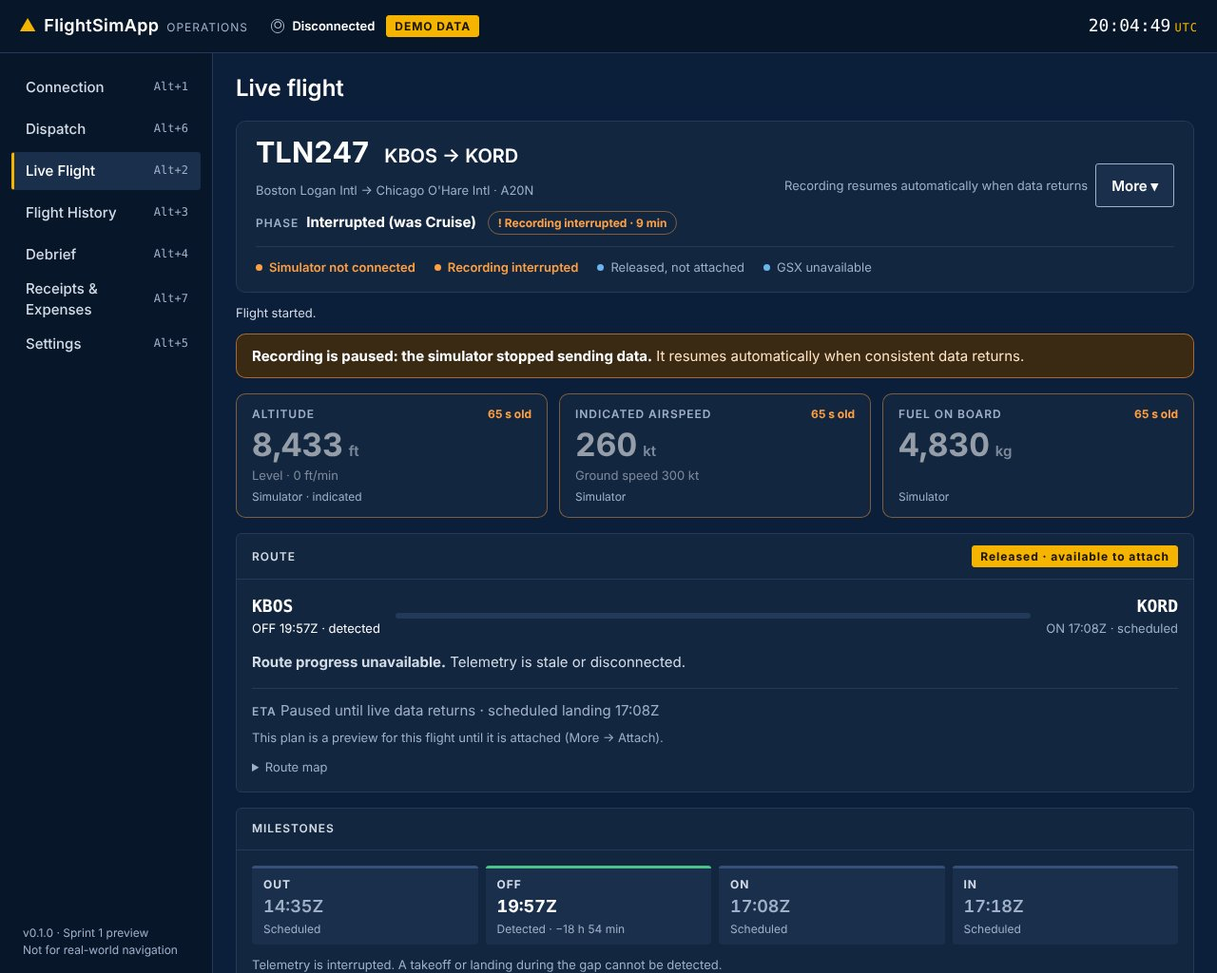
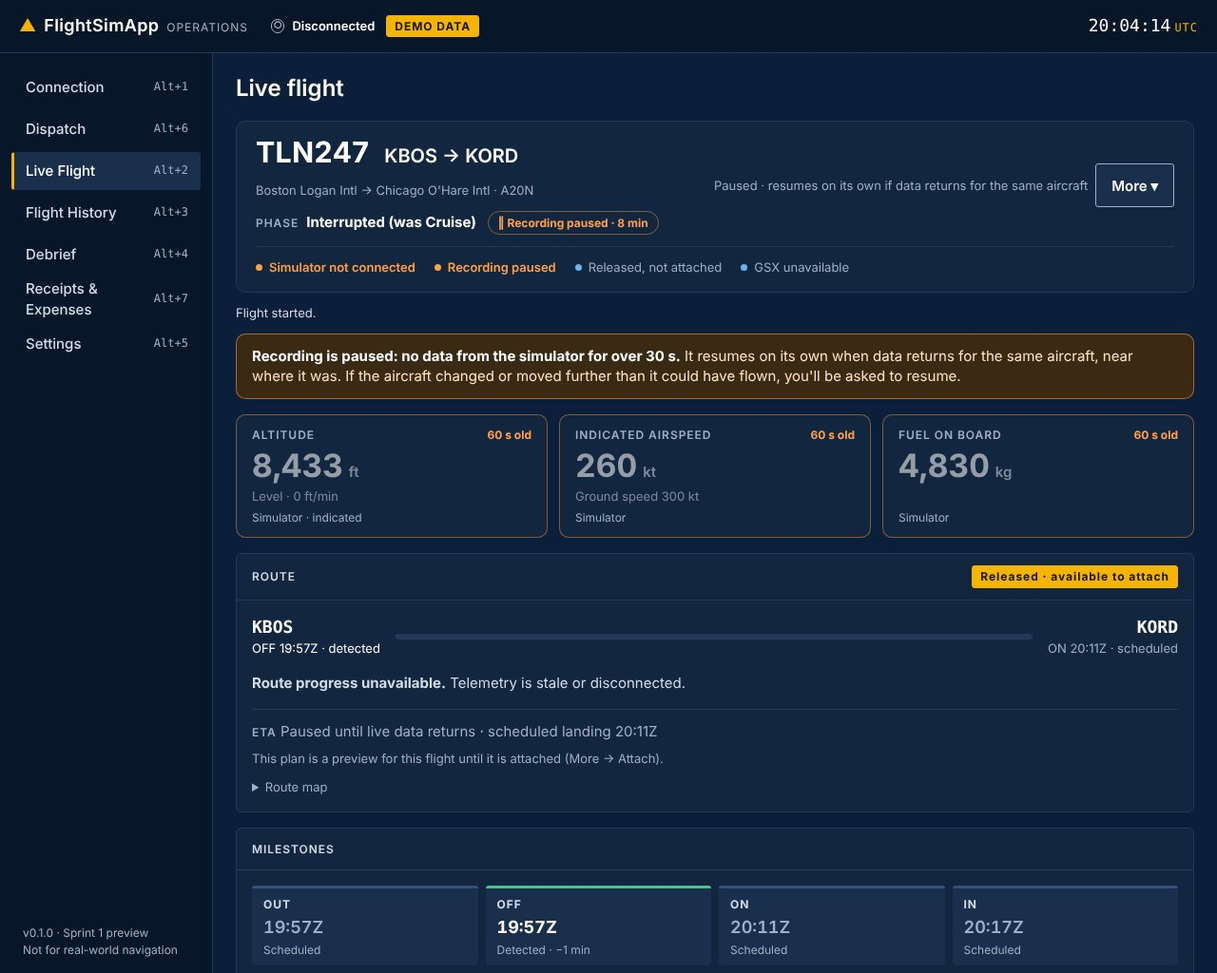
Ops Center L5 fixes: whole tile values, accurate interruption messages
- Tile values are never cut off. The parking-brake tile now reads
  'Parking brake: Set / Released', with engines and ground state on the
  secondary line. Tile values wrap instead of ending in an ellipsis. The
  header status line may break between the phase and the recording chip.
- Interruption messages follow the recorder's real rules (flight-core
  engine):
  - stale data under 30 s: recording continues, with the threshold stated;
  - lost data for 30 s or more: 'Recording paused', which resumes on its
    own when data returns for the same aircraft near its last position;
  - a mismatch after data returns (aircraft changed, or moved further
    than it could have flown): 'Resume needed', with the reason;
  - an app restart: 'Unfinished flight found'.
  The 30 s threshold is read from the engine config.
- Flight details sits under the route card at two columns, and last when
  stacked. The remaining space at 1920 px comes from the classic
  Turnaround panel, which L6 replaces; nothing was added to fill it.
- Review captures: a screenshot-only copy of the synthetic OFP puts its
  schedule on the demo flight's timeline (fixtures and tests unchanged).
  The route-mismatch session is kept as recorded. A separate session
  holds the route-tracking example and a genuine Resume-needed case. The
  script fails if any tile or header text is cut off.
- Tests: a tile-value length budget across phases, readings, schedules
[…]

diff --git a/apps/desktop/test/live-model.test.ts b/apps/desktop/test/live-model.test.ts
@@ -17,6 +17,8 @@ import {
   health,
   flownPhaseGroup,
   identity,
+  INTERRUPT_AFTER_S,
+  interruptionKind,
   liveRouteProgress,
   milestoneCells,
   phaseGroup,
@@ -151,7 +153,7 @@ describe("metric tiles", () => {
     const [sched, fuel, ac] = selectTiles(tiles({ lc: active("PREPARING") }));
     expect(sched).toMatchObject({ id: "scheduled_out", label: "Scheduled off-block in", value: "17", unit: "min", secondary: "14:35Z scheduled" });
     expect(fuel).toMatchObject({ value: "5,120", secondary: "Planned block fuel 7,420 kg" });
-    expect(ac).toMatchObject({ value: "Parking brake set", secondary: "0 of 2 engines running · on ground" });
+    expect(ac).toMatchObject({ label: "Parking brake", value: "Set", secondary: "0 of 2 engines running · on ground" });
     const preview = selectTiles(tiles({ lc: active("PREPARING"), schedulePlan: null }))[0];
     expect(preview).toMatchObject({ value: null, state: "unavailable", note: "Release or attach a plan to use its schedule" });
     const late = selectTiles(tiles({ lc: active("PREPARING"), nowMs: Date.parse("2026-10-15T14:41:00Z") }))[0];
@@ -189,7 +191,7 @@ describe("flight actions", () => {
     // Interrupted before takeoff: the existing rules still allow a manual OUT, so it stays reachable.
     expect(acts({ lc: lc({ status: "interrupted", flightId: "f-1", phase: "INTERRUPTED", needsUserDecision: true }) })).toMatchObject({ primary: "resume", secondary: ["record_out", "end", "discard"] });
     // Automatic interruption: recording resumes on its own; Resume stays available but is not the primary.
-    expect(acts({ lc: lc({ status: "interrupted", flightId: "f-1", phase: "INTERRUPTED", takeoffAt: "x" }) })).toMatchObject({ primary: null, secondary: ["resume", "end", "discard"], idleNote: "Recording resumes automatically when data returns" });
+    expect(acts({ lc: lc({ status: "interrupted", flightId: "f-1", phase: "INTERRUPTED", takeoffAt: "x" }) })).toMatchObject({ primary: null, secondary: ["resume", "end", "discard"], idleNote: "Paused · resumes on its own if data returns for the same aircraft" });
     expect(acts({ lc: lc({ status: "completed", flightId: "f-1" }) })).toMatchObject({ primary: "start", secondary: ["open_debrief"] });
     expect(acts({ lc: lc({ status: "completed", flightId: "f-1" }), telemetryLive: false })).toMatchObject({ primary: "connect", secondary: ["open_debrief"] });
   });
@@ -258,7 +260,8 @@ describe("health summary and attention", () => {
     expect(h({ writeError: "busy", pendingItems: 23 }).attention[0]).toMatchObject({ id: "write", detail: "23 items are kept safely in memory and saving is retried automatically.", actions: ["retry_flush"] });
     expect(h({ lc: lc({ status: "interrupted", flightId: "f-1", needsUserDecision: true }) }).attention[0]).toMatchObject({ id: "interrupted", level: "action", actions: ["resume"] });
     expect(h({ lc: lc({ status: "interrupted", flightId: "f-1", needsUserDecision: true, startedAt: "2026-10-15T14:00:00Z" }), recovered: true }).attention[0]).toMatchObject({ title: "Unfinished flight found.", actions: ["resume"] });
-    expect(h({ lc: lc({ status: "interrupted", flightId: "f-1" }), freshness: STALE, simulatorConnected: true }).attention.map((a) => a.id)).toEqual(["interrupted", "stale"]);
+    // Once interrupted, the interruption message replaces the stale one (which would promise an interruption that already happened).
+    expect(h({ lc: lc({ status: "interrupted", flightId: "f-1" }), freshness: STALE, simulatorConnected: true }).attention.map((a) => a.id)).toEqual(["interrupted"]);
     expect(h({ freshness: { kind: "stale", ageMs: 9000, reason: "disconnected" }, simulatorConnected: false }).attention[0]).toMatchObject({ id: "disconnected", actions: ["connect"] });
     expect(h({ lc: lc(), freshness: { kind: "none" }, simulatorConnected: false }).attention).toEqual([]);
     expect(h({ turnaround: turnaround([], { status: "interrupted" }) }).attention[0]).toMatchObject({ id: "turnaround", actions: ["resume_turnaround"] });
@@ -391,5 +394,92 @@ describe("flown phase and ETA reasons", () => {
     const base = { hasPlan: true, hasNavlog: true, airborne: false, freshness: LIVE, progress: null, groundSpeedKt: 0, nowMs: NOW };
     expect(etaEstimate(base)).toEqual({ kind: "hidden", reason: "Starts after takeoff" });
     expect(etaEstimate({ ...base, landed: true })).toEqual({ kind: "hidden", reason: "Not shown after landing" });
+  });
+});
+
+describe("tile values are never cut off", () => {
+  // Every tile value must fit a three-up tile at 1100 px (about 12 characters at the value size);
+  // longer wording goes in the label or the secondary line, never in the value.
+  const MAX_VALUE_CHARS = 12;
+  const states: LifecycleState[] = [
+    lc(),
+    active("PREPARING"),
+    active("TAXI_OUT"),
+    active("TAKEOFF"),
+    active("CLIMB"),
+    active("CRUISE"),
+    active("DESCENT"),
+    active("APPROACH"),
+    active("LANDING", { takeoffAt: "2026-10-15T14:52:00Z", landingAt: "2026-10-15T17:08:00Z" }),
+    active("TAXI_IN", { takeoffAt: "2026-10-15T14:52:00Z", landingAt: "2026-10-15T17:08:00Z" }),
+    active("TAXI_IN", { arrived: true, takeoffAt: "2026-10-15T14:52:00Z", landingAt: "2026-10-15T17:08:00Z" }),
+    lc({ status: "interrupted", flightId: "f-1", phase: "INTERRUPTED" as LifecycleState["phase"], resumePhase: "CRUISE" }),
+  ];
+  const frames = [frame(), frame((r) => (r.parking_brake_set = { value: false, unit: "bool", quality: "ok" })), airborneFrame(), airborneFrame(41_000, -2400, 290, 520, 1800), null];
+  const nows = [NOW, Date.parse("2026-10-15T09:00:00Z"), Date.parse("2026-10-16T02:00:00Z")];
+  const manuals = [NO_MANUAL, manual("2026-10-15T14:38:00Z", null), manual("2026-10-15T14:38:00Z", "2026-10-15T17:25:00Z")];
+
+  it(`keep every value within ${MAX_VALUE_CHARS} characters in every phase, reading and schedule`, () => {
+    for (const l of states)
+      for (const f of frames)
+        for (const nowMs of nows)
+          for (const m of manuals)
+            for (const fresh of [LIVE, STALE])
+              for (const t of selectTiles(tiles({ lc: l, frame: f, nowMs, manual: m, freshness: fresh })))
+                if (t.value !== null) expect(t.value.length, `${t.id} "${t.value}"`).toBeLessThanOrEqual(MAX_VALUE_CHARS);
+  });
+
+  it("the parking-brake tile keeps its full meaning in the label, value and secondary line", () => {
+    const [, , ac] = selectTiles(tiles({ lc: active("PREPARING") }));
+    expect(`${ac.label}: ${ac.value}`).toBe("Parking brake: Set");
+    const released = selectTiles(tiles({ lc: active("PREPARING"), frame: frame((r) => (r.parking_brake_set = { value: false, unit: "bool", quality: "ok" })) }))[2];
+    expect(released.value).toBe("Released");
+  });
+
+  it("the stylesheet lets tile values wrap instead of truncating them", () => {
+    const css = readFileSync(join(__dirname, "../src/styles/app.css"), "utf8");
+    const rule = css.match(/\.ops-tile__value \{[^}]*\}/)?.[0] ?? "";
+    expect(rule).not.toBe("");
+    expect(rule).not.toMatch(/text-overflow:\s*ellipsis|white-space:\s*nowrap/);
+  });
+});
+
+describe("interruption messages follow the recorder's real recovery rules", () => {
+  const open = (o: Partial<LifecycleState> = {}) => lc({ status: "interrupted", flightId: "f-1", phase: "INTERRUPTED" as LifecycleState["phase"], resumePhase: "CRUISE", ...o });
+  const h = (o: Partial<HealthInputs>) =>
+    health({ lc: active("CRUISE"), freshness: LIVE, simulatorConnected: true, simulator: "msfs2020", store: { state: "ready" }, writeError: null, pendingItems: 0, basis: basis("release_attached_current"), gsx: feed("live"), gsxRecordError: null, turnaround: null, opsError: null, ...o });
+  const acts = (o: Partial<ActionInputs>) => flightActions({ lc: lc(), telemetryLive: true, storeReady: true, opsReady: true, manual: NO_MANUAL, ...o });
+
+  it("tells apart lost data (resumes on its own), a reconciliation mismatch and an app restart (both need Resume)", () => {
+    expect(interruptionKind(open(), false)).toBe("auto");
+    expect(interruptionKind(open({ needsUserDecision: true }), false)).toBe("reconcile");
+    expect(interruptionKind(open({ needsUserDecision: true }), true)).toBe("restart");
+    expect(interruptionKind(active("CRUISE"), false)).toBeNull();
+  });
+
+  it("an automatic interruption says it is a pause that ends on its own, and when it would not", () => {
+    const a = h({ lc: open() }).attention[0]!;
+    expect(a).toMatchObject({ id: "interrupted", level: "warn", actions: [] });
+    expect(a.title).toBe(`Recording is paused: no data from the simulator for over ${INTERRUPT_AFTER_S} s.`);
+    expect(a.detail).toMatch(/resumes on its own when data returns for the same aircraft/);
+    expect(a.detail).toMatch(/you'll be asked to resume/);
+    expect(h({ lc: open() }).items.find((i) => i.id === "recording")).toMatchObject({ level: "warn", text: "Recording paused" });
+    expect(acts({ lc: open({ takeoffAt: "x" }) })).toMatchObject({ primary: null, idleNote: "Paused · resumes on its own if data returns for the same aircraft" });
+  });
+
+  it("a mismatch after data returns asks for Resume and says why; it never claims to resume automatically", () => {
+    const a = h({ lc: open({ needsUserDecision: true }) }).attention[0]!;
+    expect(a).toMatchObject({ level: "action", title: "Recording needs you to resume.", actions: ["resume"] });
+    expect(a.detail).toMatch(/changed or moved further than it could have flown/);
+    expect(a.detail).not.toMatch(/automatically|on its own when/);
+    expect(h({ lc: open({ needsUserDecision: true }) }).items.find((i) => i.id === "recording")).toMatchObject({ level: "action", text: "Resume needed" });
+    expect(acts({ lc: open({ needsUserDecision: true, takeoffAt: "x" }) })).toMatchObject({ primary: "resume", idleNote: null });
+  });
+
+  it("stale data before the interruption threshold says recording continues and when it would be interrupted", () => {
+    const a = h({ lc: active("CRUISE"), freshness: STALE, simulatorConnected: true }).attention[0]!;
+    expect(a).toMatchObject({ id: "stale", level: "warn" });
+    expect(a.detail).toMatch(new RegExp(`Recording continues; if no data arrives for ${INTERRUPT_AFTER_S} s, the flight is marked interrupted`));
+    expect(INTERRUPT_AFTER_S).toBe(30);
   });
 });

diff --git a/apps/desktop/src/live/model.ts b/apps/desktop/src/live/model.ts
@@ -9,7 +9,7 @@
  * basis from `planBasisForFlight`, GSX state from `gsxFeedView`.
  */
 import { readingValue, type GsxService, type GsxServiceState, type Reading, type SimulatorId, type TelemetryFrameV1, type Unit } from "@flightsim/contracts";
-import { availableActions, type LifecycleState } from "@flightsim/flight-core";
+import { availableActions, DEFAULT_LIFECYCLE_CONFIG, type LifecycleState } from "@flightsim/flight-core";
 import type { PlanBasis, PlanBasisKind } from "../dispatch/planBasis";
 import type { ImportedFlightPlan } from "../dispatch/model";
 import { manualEligibility, PROVENANCE_TEXT, type ManualMilestones, type MilestoneRow } from "../dispatch/timeline";
@@ -23,6 +23,24 @@ import { routeProgress, type RouteProgress, type TrackerState } from "../route/p
 import type { RouteGeometry } from "../route/geometry";
 
 // ---------------------------------------------------------------- formatting
+
+/** Seconds of missing telemetry after which the recorder marks a flight interrupted (engine config). */
+export const INTERRUPT_AFTER_S = Math.round(DEFAULT_LIFECYCLE_CONFIG.interruptAfterMs / 1000);
+
+/**
+ * How an interrupted flight can continue, from the recorder's own rules (flight-core engine):
+ * - "auto": lost telemetry; the recorder resumes by itself when data returns for the same aircraft
+ *   within the distance it could have flown during the gap;
+ * - "reconcile": data returned but the aircraft changed or moved too far, so it waits for Resume;
+ * - "restart": the app closed with the flight open; it waits for Resume.
+ */
+export type InterruptionKind = "auto" | "reconcile" | "restart";
+
+export function interruptionKind(lc: LifecycleState, recovered: boolean): InterruptionKind | null {
+  if (lc.status !== "interrupted") return null;
+  if (recovered) return "restart";
+  return lc.needsUserDecision ? "reconcile" : "auto";
+}
 
 const NUM = new Intl.NumberFormat("en-US", { maximumFractionDigits: 0 });
 const num = (n: number) => NUM.format(Math.round(n));
@@ -236,7 +254,7 @@ function scheduleTile(id: "scheduled_out" | "scheduled_off" | "on_block", t: Til
 }
 
 function aircraftStateTile(t: TileInputs): MetricTile {
-  const base = { id: "aircraft_state" as const, label: "Aircraft", unit: null, source: SIM };
+  const base = { id: "aircraft_state" as const, label: "Parking brake", unit: null, source: SIM };
   if (!t.frame) return { ...base, value: null, secondary: null, state: "unavailable", note: "No data from the simulator yet" };
   const r = t.frame.readings;
   const brake = readingValue(r.parking_brake_set);
@@ -247,7 +265,7 @@ function aircraftStateTile(t: TileInputs): MetricTile {
   const stale = t.freshness.kind !== "live";
   return {
     ...base,
-    value: brake === null ? null : brake ? "Parking brake set" : "Parking brake released",
+    value: brake === null ? null : brake ? "Set" : "Released",
     secondary: parts.join(" · "),
     state: brake === null ? "unavailable" : stale ? "stale" : "ok",
     note: brake === null ? "Parking brake not reported by this aircraft" : stale && t.freshness.kind === "stale" ? `${formatAge(t.freshness.ageMs)} old` : null,
@@ -352,7 +370,7 @@ export function flightActions(a: ActionInputs): ActionsModel {
   if (engine.end) secondary.push("end");
   if (engine.discard) secondary.push("discard");
   if (closed && primary !== "open_debrief") secondary.push("open_debrief");
-  return { primary, secondary, idleNote: primary ? null : autoResume ? "Recording resumes automatically when data returns" : open ? "No action needed" : null };
+  return { primary, secondary, idleNote: primary ? null : autoResume ? "Paused · resumes on its own if data returns for the same aircraft" : open ? "No action needed" : null };
 }
 
 // ---------------------------------------------------------------- health and attention
@@ -409,7 +427,7 @@ export function health(h: HealthInputs): { items: HealthItem[]; attention: Atten
 
   if (h.store.state === "unavailable") items.push({ id: "recording", level: "action", text: "Recording unavailable" });
   else if (h.writeError) items.push({ id: "recording", level: "warn", text: "Saving delayed" });
-  else if (h.lc.status === "interrupted") items.push({ id: "recording", level: "warn", text: "Recording interrupted" });
+  else if (h.lc.status === "interrupted") items.push({ id: "recording", level: h.lc.needsUserDecision || h.recovered ? "action" : "warn", text: h.lc.needsUserDecision || h.recovered ? "Resume needed" : "Recording paused" });
   else items.push({ id: "recording", level: open ? "ok" : "info", text: open ? "Recording" : "Not recording" });
 
   const b = h.basis?.kind;
@@ -432,16 +450,24 @@ export function health(h: HealthInputs): { items: HealthItem[]; attention: Atten
     attention.push({ id: "store", level: "action", title: "Flight recording is unavailable.", detail: "Flights can't be saved until the flight database is available again.", actions: h.store.canReset ? ["retry_store", "move_aside"] : ["retry_store"] });
   else if (h.writeError)
     attention.push({ id: "write", level: "action", title: "Recent flight data hasn't been saved yet.", detail: `${h.pendingItems} item${h.pendingItems === 1 ? " is" : "s are"} kept safely in memory and saving is retried automatically.`, actions: ["retry_flush"] });
-  if (h.lc.status === "interrupted")
-    attention.push(
-      h.recovered
-        ? { id: "interrupted", level: "action", title: "Unfinished flight found.", detail: `A flight started ${h.lc.startedAt ? hmUtc(h.lc.startedAt) : "earlier"} was still open when Turnline closed. Resume to continue recording it (the phase is re-checked against live data), or end or discard it from More.`, actions: ["resume"] }
-        : h.lc.needsUserDecision
-        ? { id: "interrupted", level: "action", title: "This flight was interrupted.", detail: "Resume to continue recording it, or end or discard it from More.", actions: ["resume"] }
-        : { id: "interrupted", level: "warn", title: "Recording is paused: the simulator stopped sending data.", detail: "It resumes automatically when consistent data returns.", actions: [] },
-    );
-  if (h.freshness.kind === "stale" && h.simulatorConnected)
-    attention.push({ id: "stale", level: "warn", title: `No new data from the simulator for ${formatAge(h.freshness.ageMs)}.`, detail: "The simulator may be paused, loading or busy. Values shown are the last ones received and are marked as old.", actions: [] });
+  const kind = interruptionKind(h.lc, h.recovered ?? false);
+  if (kind === "restart")
+    attention.push({ id: "interrupted", level: "action", title: "Unfinished flight found.", detail: `A flight started ${h.lc.startedAt ? hmUtc(h.lc.startedAt) : "earlier"} was still open when Turnline closed. Resume to continue recording it (the phase is re-checked against live data), or end or discard it from More.`, actions: ["resume"] });
+  else if (kind === "reconcile")
+    attention.push({ id: "interrupted", level: "action", title: "Recording needs you to resume.", detail: "Data is back, but the aircraft changed or moved further than it could have flown during the gap, so Turnline won't continue the flight on its own. Resume to continue (the phase is re-checked against live data), or end or discard it from More.", actions: ["resume"] });
+  else if (kind === "auto")
+    attention.push({ id: "interrupted", level: "warn", title: `Recording is paused: no data from the simulator for over ${INTERRUPT_AFTER_S} s.`, detail: "It resumes on its own when data returns for the same aircraft, near where it was. If the aircraft changed or moved further than it could have flown, you'll be asked to resume.", actions: [] });
+  // Stale but not yet interrupted: recording carries on; only a gap is logged.
+  if (h.freshness.kind === "stale" && h.simulatorConnected && !kind)
+    attention.push({
+      id: "stale",
+      level: "warn",
+      title: `No new data from the simulator for ${formatAge(h.freshness.ageMs)}.`,
+      detail: open
+        ? `Recording continues; if no data arrives for ${INTERRUPT_AFTER_S} s, the flight is marked interrupted. Values shown are the last ones received and are marked as old.`
+        : "The simulator may be paused, loading or busy. Values shown are the last ones received and are marked as old.",
+      actions: [],
+    });
   else if (open && !h.simulatorConnected && h.lc.status !== "interrupted")
     attention.push({ id: "disconnected", level: "warn", title: "The simulator is not connected.", detail: "Recording continues once the connection returns.", actions: ["connect"] });
   if (h.gsxRecordError) attention.push({ id: "gsx_record", level: "action", title: "GSX activity couldn't be saved to the turnaround.", detail: "Turnline keeps retrying. Nothing observed so far is lost.", actions: [] });

diff --git a/apps/desktop/src/styles/app.css b/apps/desktop/src/styles/app.css
@@ -364,7 +364,8 @@ details > summary { cursor: pointer; color: var(--text-muted); font-size: var(--
 .ops-id__none { font-size: var(--text-lg); font-weight: 600; color: var(--text-muted); }
 .ops-id__route { font-size: 1.25rem; font-weight: 600; overflow: hidden; text-overflow: ellipsis; }
 .ops-id__sub { font-size: var(--text-sm); overflow: hidden; text-overflow: ellipsis; white-space: nowrap; }
-.ops-id__status { display: flex; align-items: center; gap: var(--space-3); margin-top: var(--space-2); white-space: nowrap; }
+.ops-id__status { display: flex; flex-wrap: wrap; align-items: center; gap: var(--space-2) var(--space-3); margin-top: var(--space-2); }
+.ops-id__status > * { white-space: nowrap; }
 .ops-id__phase { display: inline-flex; align-items: baseline; gap: var(--space-2); }
 .ops-id__phase strong { font-size: var(--text-md); }
 .ops-label { font-size: var(--text-xs); letter-spacing: var(--tracking-label); text-transform: uppercase; color: var(--text-muted); font-weight: 600; }
@@ -374,6 +375,7 @@ details > summary { cursor: pointer; color: var(--text-muted); font-size: var(--
 .ops-chip { display: inline-flex; align-items: center; gap: 6px; font-size: var(--text-xs); font-weight: 650; padding: 3px 10px; border-radius: 999px; border: 1px solid var(--border-strong); color: var(--text-secondary); white-space: nowrap; }
 .ops-chip--ok { color: var(--status-ok); border-color: color-mix(in srgb, var(--status-ok) 45%, transparent); }
 .ops-chip--warn { color: var(--status-warn); border-color: color-mix(in srgb, var(--status-warn) 45%, transparent); }
+.ops-chip--alert { color: var(--status-alert); border-color: color-mix(in srgb, var(--status-alert) 55%, transparent); }
 .ops-chip--info { color: var(--status-info); border-color: color-mix(in srgb, var(--status-info) 45%, transparent); }
 .ops-more { position: relative; }
 .ops-more .button { min-height: 46px; }
@@ -406,7 +408,8 @@ details > summary { cursor: pointer; color: var(--text-muted); font-size: var(--
 .ops-tile { display: flex; flex-direction: column; gap: 4px; min-width: 0; background: var(--surface-1); border: 1px solid var(--border-subtle); border-radius: 10px; padding: var(--space-3) var(--space-4); }
 .ops-tile__head { display: flex; justify-content: space-between; gap: var(--space-2); }
 .ops-tile__age { font-size: var(--text-xs); font-weight: 700; color: var(--status-warn); white-space: nowrap; }
-.ops-tile__value { font-family: var(--font-display); font-size: 2.1rem; font-weight: 700; line-height: 1.15; font-variant-numeric: tabular-nums; white-space: nowrap; overflow: hidden; text-overflow: ellipsis; }
+/* Values wrap rather than being cut off: a tile never hides part of its value. */
+.ops-tile__value { font-family: var(--font-display); font-size: 2.1rem; font-weight: 700; line-height: 1.15; font-variant-numeric: tabular-nums; overflow-wrap: anywhere; }
 .ops-tile__value--none { font-size: var(--text-lg); color: var(--text-unavailable); font-weight: 600; }
 .ops-tile__unit { margin-left: 6px; font-size: var(--text-md); font-weight: 600; color: var(--text-secondary); }
 .ops-tile__secondary { font-size: var(--text-sm); color: var(--text-secondary); min-height: 1.4em; }
@@ -444,6 +447,11 @@ details > summary { cursor: pointer; color: var(--text-muted); font-size: var(--
 .ops-details__body { display: grid; gap: var(--space-4); margin-top: var(--space-3); }
 @container (min-width: 1200px) {
   .ops-grid { grid-template-columns: minmax(0, 2fr) minmax(360px, 1fr); }
+}
+/* One column: flatten the columns so Flight details can follow the milestones and turnaround. */
+@container (max-width: 1199px) {
+  .ops-main, .ops-side { display: contents; }
+  .ops-details { order: 1; }
 }
 @container (max-width: 760px) {
   .ops-id { grid-template-columns: minmax(0, 1fr); grid-template-areas: "identity" "actions" "health"; }

diff --git a/apps/desktop/src/live/OpsCenterHeader.tsx b/apps/desktop/src/live/OpsCenterHeader.tsx
@@ -11,7 +11,7 @@ import { useOps } from "../ops/OpsContext";
 import { DiscardFlightDialog, EndFlightDialog, MoveAsideDialog, useCommandRunner } from "../recording/FlightDialogs";
 import { useRecorder } from "../recording/RecorderContext";
 import { Button } from "../ui/Button";
-import type { AttentionAction, AttentionItem, FlightActionId, HealthItem, Identity } from "./model";
+import type { AttentionAction, AttentionItem, FlightActionId, HealthItem, Identity, InterruptionKind } from "./model";
 import type { LiveFlightModel } from "./useLiveFlightModel";
 
 const ACTION_LABEL: Record<FlightActionId, string> = {
@@ -101,7 +101,7 @@ export function OpsCenterHeader({ model: m, navigate }: { model: LiveFlightModel
   return (
     <div className="ops-head">
       <section className="ops-id" aria-label="Flight">
-        <IdentityBlock id={m.identity} />
+        <IdentityBlock id={m.identity} interruption={m.interruption} />
         <div className="ops-id__actions">
           {m.actions.primary ? (
             <Button variant="primary" className="ops-primary" disabled={blocked(m.actions.primary)} onClick={() => perform(m.actions.primary!)}>
@@ -132,12 +132,21 @@ export function OpsCenterHeader({ model: m, navigate }: { model: LiveFlightModel
 /**
  * Flight number and route on the first line, city names and type below, then a status line with the
  * phase and the recording state. Fixed lines, so nothing reflows into a ragged wrap at narrower
- * widths; the plan basis is shown on the route card.
+ * widths; only the status line may break, between the phase and the recording chip, never inside
+ * either. The plan basis is shown on the route card.
  */
-function IdentityBlock({ id }: { id: Identity }) {
+function IdentityBlock({ id, interruption }: { id: Identity; interruption: InterruptionKind | null }) {
   const route = id.origin && id.destination ? `${id.origin.icao} → ${id.destination.icao}` : null;
   const names = id.origin && id.destination ? [id.origin.name ?? id.origin.icao, id.destination.name ?? id.destination.icao].join(" → ") : null;
-  const rec = id.recording === "recording" ? { tone: "ok", text: "● Recording" } : id.recording === "interrupted" ? { tone: "warn", text: "! Recording interrupted" } : { tone: "neutral", text: "Not recording" };
+  // An automatic interruption is a pause that ends by itself; the other kinds wait for Resume.
+  const rec =
+    id.recording === "recording"
+      ? { tone: "ok", text: "● Recording" }
+      : id.recording === "interrupted"
+        ? interruption === "auto"
+          ? { tone: "warn", text: "‖ Recording paused" }
+          : { tone: "alert", text: "! Resume needed" }
+        : { tone: "neutral", text: "Not recording" };
   return (
     <div className="ops-id__identity">
       <div className="ops-id__line">

diff --git a/apps/desktop/src/live/OpsCenterPage.tsx b/apps/desktop/src/live/OpsCenterPage.tsx
@@ -40,6 +40,13 @@ function OpsCenterBody({ navigate }: { navigate: NavigateFn }) {
           <ErrorBoundary label="Route">
             <RouteCard route={m.route} basis={m.basis} cells={m.milestones.cells} flightOpen={m.flightId !== null} navigate={navigate} />
           </ErrorBoundary>
+          <details className="ops-details">
+            <summary>Flight details: plan baseline and all live readings</summary>
+            <div className="ops-details__body">
+              <FlightPlanBaseline flightId={m.flightId} navigate={navigate} />
+              <TelemetryPanels showTiming={false} />
+            </div>
+          </details>
         </div>
         <div className="ops-side">
           <ErrorBoundary label="Milestones">
@@ -48,13 +55,6 @@ function OpsCenterBody({ navigate }: { navigate: NavigateFn }) {
           <TurnaroundPanel navigate={navigate} />
         </div>
       </div>
-      <details className="ops-details">
-        <summary>Flight details: plan baseline and all live readings</summary>
-        <div className="ops-details__body">
-          <FlightPlanBaseline flightId={m.flightId} navigate={navigate} />
-          <TelemetryPanels showTiming={false} />
-        </div>
-      </details>
       <p className="ops-preview-note">Preview layout. Ground services and the remaining details move into the new design in the next steps.</p>
     </>
   );

diff --git a/apps/desktop/src/live/useLiveFlightModel.ts b/apps/desktop/src/live/useLiveFlightModel.ts
@@ -15,7 +15,7 @@ import { useOpsView } from "../ops/OpsContext";
 import { usePreferences } from "../preferences/PreferencesContext";
 import { useRecorderView } from "../recording/RecorderContext";
 import { useRouteTracker } from "../route/RouteTrackerContext";
-import { AIRBORNE_GROUPS, etaEstimate, flightActions, flownPhaseGroup, health, identity, liveRouteProgress, milestoneCells, planFuelAtLastFix, scheduleNote, selectTiles, upcomingFixes } from "./model";
+import { AIRBORNE_GROUPS, etaEstimate, flightActions, flownPhaseGroup, health, identity, interruptionKind, liveRouteProgress, milestoneCells, planFuelAtLastFix, scheduleNote, selectTiles, upcomingFixes } from "./model";
 
 export type LiveFlightModel = ReturnType<typeof useLiveFlightModel>;
 
@@ -82,6 +82,7 @@ export function useLiveFlightModel() {
       position: frame && freshness.kind === "live" ? { lat: readingValue(frame.readings.lat_deg), lon: readingValue(frame.readings.lon_deg) } : null,
     },
     milestones: { rows, cells: milestoneCells(rows), note: scheduleNote(basis) },
+    interruption: interruptionKind(lc, recorder.recovered ?? false),
     turnaround,
     basis,
     busy: recorder.busy || !recorder.initialized,

diff --git a/apps/desktop/test/visual/ops-harness.tsx b/apps/desktop/test/visual/ops-harness.tsx
@@ -63,7 +63,9 @@ const preferences = params.get("prefs");
 if (preferences) storage.setItem(STORAGE_KEY, preferences);
 const dispatch = new DispatchService({
   store: new MemoryDispatchStore(),
-  fetch: (async () => new Response(JSON.stringify(ofp), { status: 200, headers: { "content-type": "application/json" } })) as typeof fetch,
+  // The capture script may supply a screenshot-only copy of the OFP (window.__ofpOverride), e.g. with
+  // its schedule moved onto the recorded demo flight's timeline. The fixture file itself is unchanged.
+  fetch: (async () => new Response(JSON.stringify((window as { __ofpOverride?: unknown }).__ofpOverride ?? ofp), { status: 200, headers: { "content-type": "application/json" } })) as typeof fetch,
 });
 
 Object.assign(window, { __harness: { transport, store, opsStore, dispatch, storage } });
